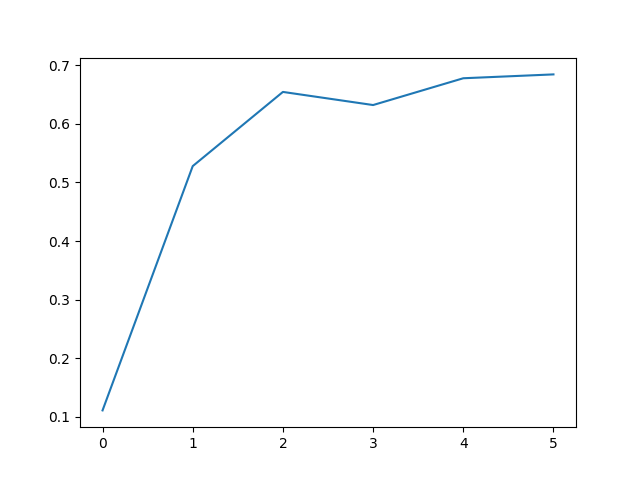
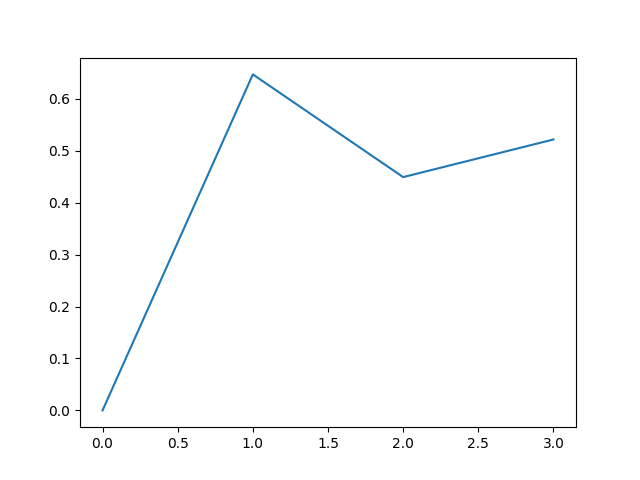
Change Train set Size

diff --git a/src/NetWalk_anomaly.py b/src/NetWalk_anomaly.py
@@ -78,7 +78,8 @@ def static_process(representation_size,walk_length,input,number_walks,init_perce
 
     # region STEP 1: Generates Anomaly data: training data and testing list of edges(for online updating)
     membership_path="./tmp/membership_"+datasetname+".txt"
-    synthetic_test, train_mat, train = anomaly_generation(ini_graph_percent, anomaly_percent, data, n, m,membership_path)
+    #synthetic_test, train_mat, train = anomaly_generation(ini_graph_percent, anomaly_percent, data, n, m,membership_path)
+    synthetic_test, train_mat, train = anomaly_generation(0.7, anomaly_percent, data, n, m,membership_path)
     data_zip = []
     data_zip.append(synthetic_test)
     data_zip.append(train)
@@ -134,7 +135,7 @@ def static_process(representation_size,walk_length,input,number_walks,init_perce
         xValue.append(snapshotNum)
         snapshotNum += 1
     plt.plot(xValue, areaUnderCurve)
-    plt.savefig('../plots/anomalyaccuracy_' + datasetname + '.png')
+    plt.savefig('../plots/anomalyaccuracy_' + datasetname +str(datetime.datetime.now())+'.png')
     # endregion
 
 
@@ -157,8 +158,8 @@ def getEmbedding(model, data, n):
 def main():
     # region Parameter Initialise
     init_percent = 0.5
-    datasetname=sys.argv[1]
-    #datasetname = 'karate'
+    #datasetname=sys.argv[1]
+    datasetname = 'karate'
     # datasetname = 'dolphin'
     #
     # datasetname = 'cora'
